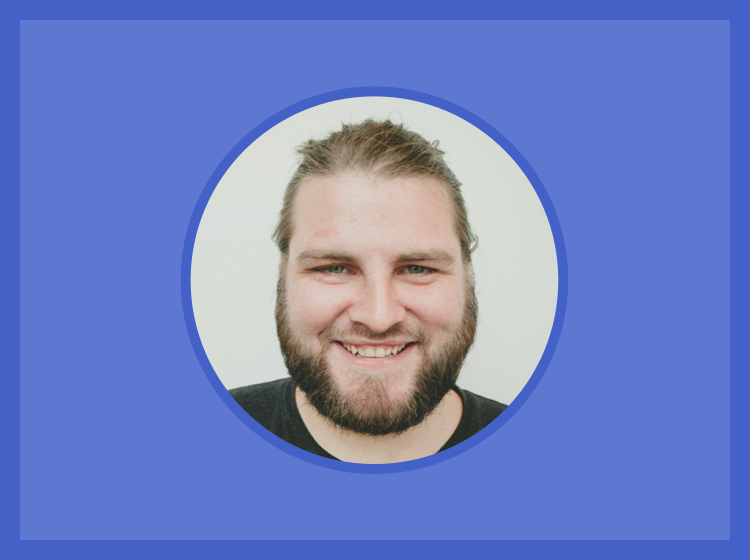
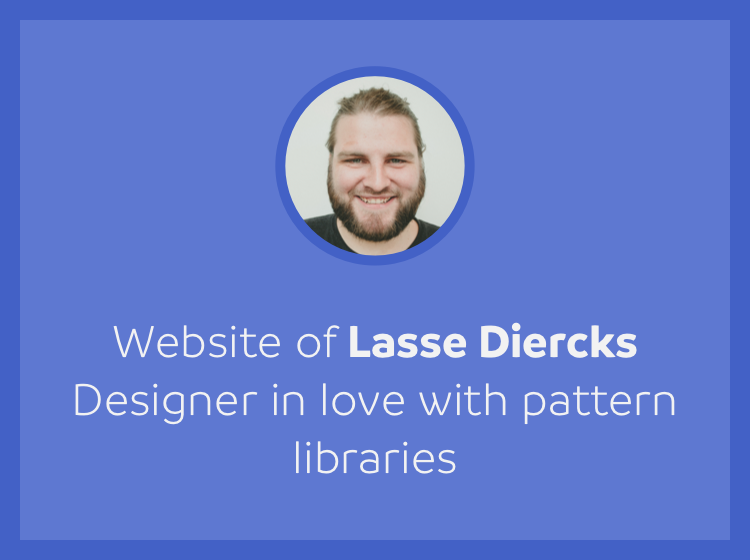
nah, large summary image it is

Changed region(s): [[0.092, 0.1214, 0.92, 0.85]]

diff --git a/icons.html b/icons.html
@@ -36,7 +36,7 @@ check it out here: http://lassediercks.github.io/design
   <meta property="og:image:type" content="image/png">
   <meta property="og:url" content="http://lassediercks.de/">
 
-  <meta name="twitter:card" content="summary" />
+  <meta name="twitter:card" content="summary-large-image" />
   <meta name="twitter:site" content="@lassediercks" />
   <meta name="twitter:title" content="Lasse Diercks" />
   <meta name="twitter:description" content="Designer with a love for pattern libraries." />

diff --git a/index.html b/index.html
@@ -37,7 +37,7 @@ check it out here: http://lassediercks.github.io/design
   <meta property="og:image:type" content="image/png">
   <meta property="og:url" content="http://lassediercks.de/">
 
-  <meta name="twitter:card" content="summary" />
+  <meta name="twitter:card" content="summary-large-image" />
   <meta name="twitter:site" content="@lassediercks" />
   <meta name="twitter:title" content="Lasse Diercks" />
   <meta name="twitter:description" content="Designer with a love for pattern libraries." />

diff --git a/ui-library.html b/ui-library.html
@@ -36,7 +36,7 @@ check it out here: http://lassediercks.github.io/design
   <meta property="og:image:type" content="image/png">
   <meta property="og:url" content="http://lassediercks.de/">
 
-  <meta name="twitter:card" content="summary" />
+  <meta name="twitter:card" content="summary-large-image" />
   <meta name="twitter:site" content="@lassediercks" />
   <meta name="twitter:title" content="Lasse Diercks" />
   <meta name="twitter:description" content="Designer with a love for pattern libraries." />
